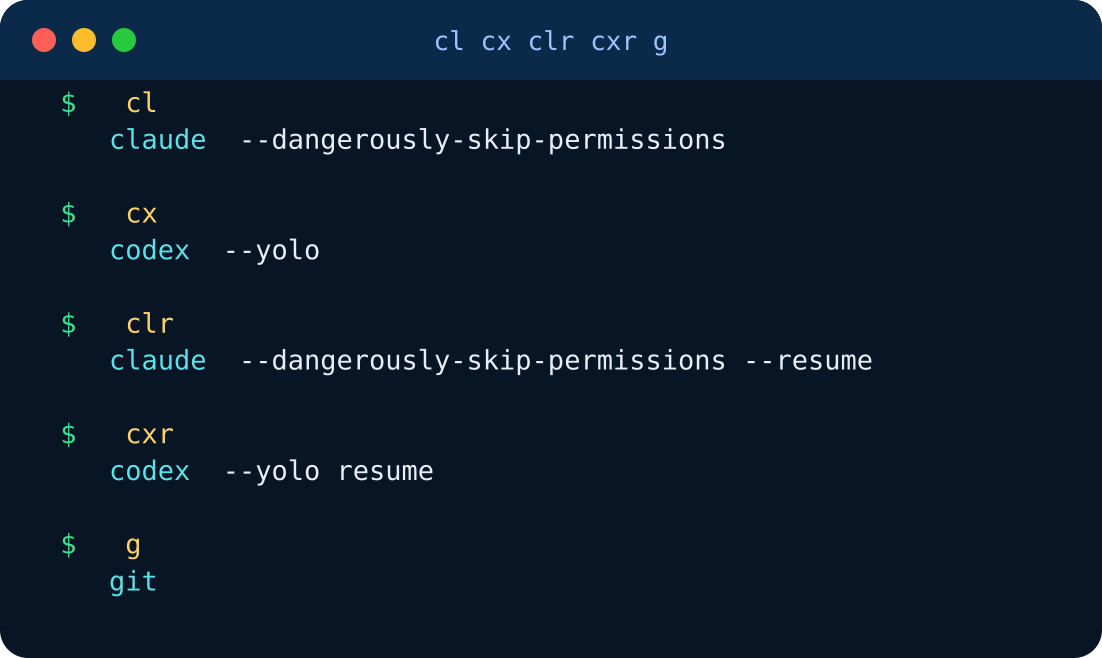
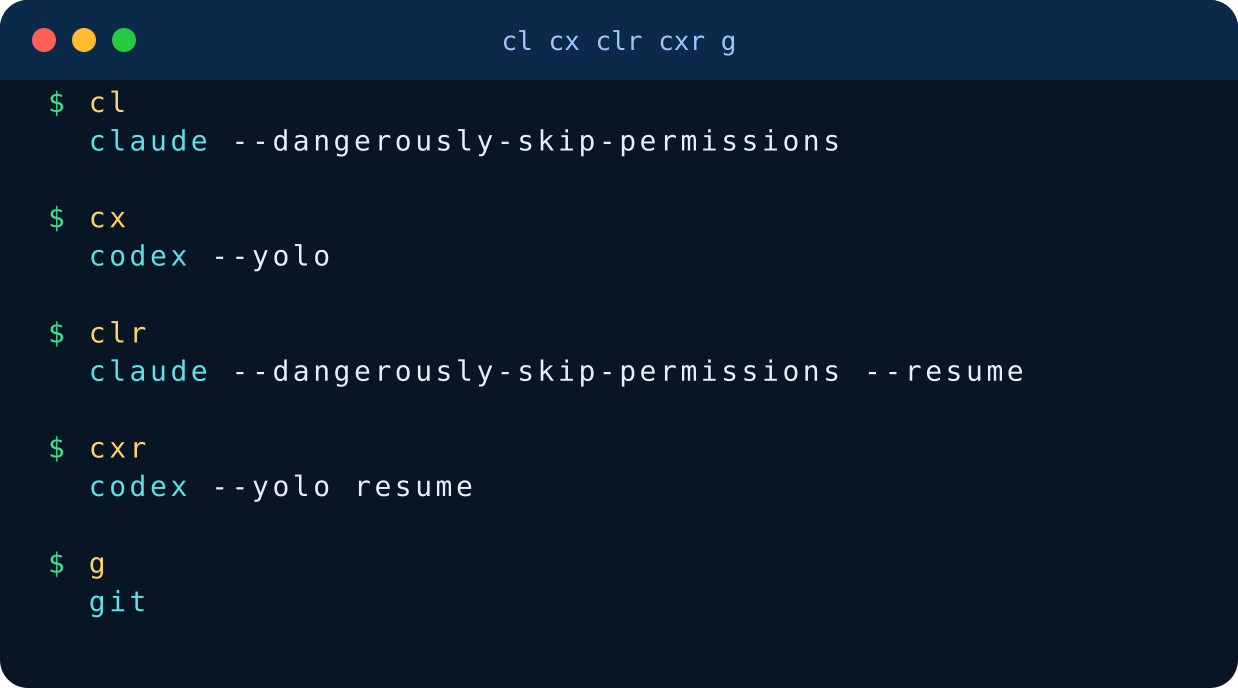
Align dashboard pipes on a wider grid and rename the box Usage Limits.

diff --git a/README.md b/README.md
@@ -13,11 +13,11 @@ source ~/.bashrc
 
 Needs `python3`. Already on the cluster.
 
-## `lm` — how much AI is left?
+## `lm` — usage limits
 
 Same command: `limits`.
 
-<img src="docs/lm.png" alt="lm showing Claude and Codex usage bars" width="620">
+<img src="docs/lm.png" alt="lm showing usage limits for Claude and Codex" width="620">
 
 Green = lots left. Yellow = you're into the week.
 
